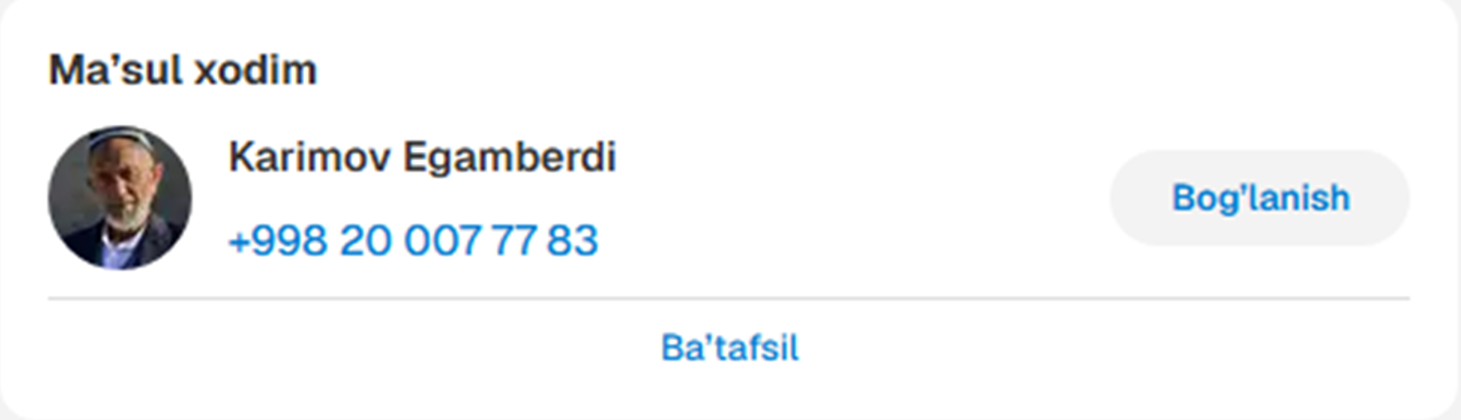
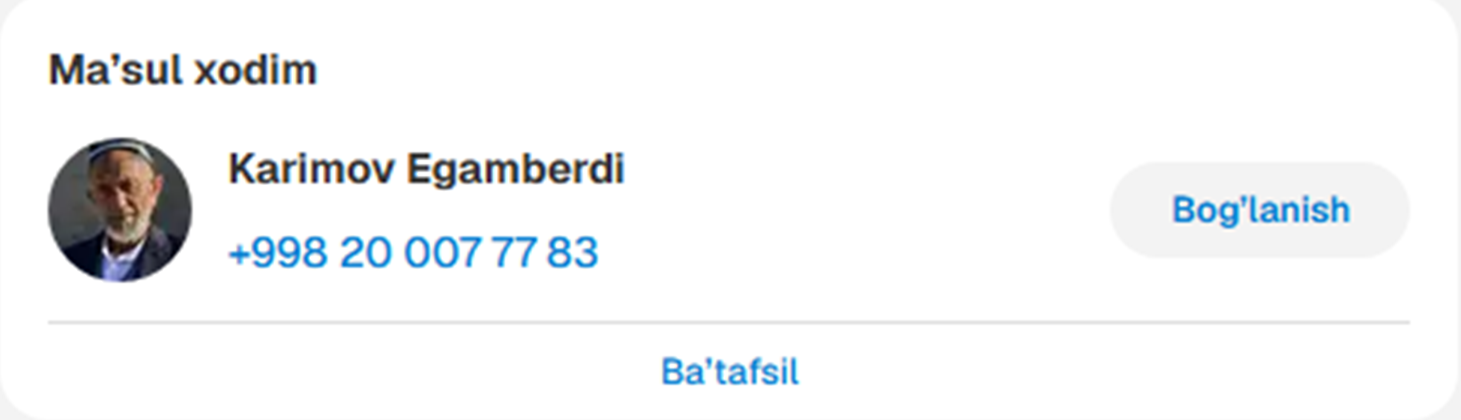
docs: update figma reference measurements and renders

Changed region(s): [[0.0308, 0.2786, 0.9548, 0.7119], [0.0308, 0.7429, 0.9548, 0.9286], [0.8008, 0.4333, 0.924, 0.5571]]

diff --git a/.claude/figma/reference.md b/.claude/figma/reference.md
@@ -24,12 +24,13 @@ powershell -File .claude/figma/sample.ps1 -Points "436,20 460,42 1500,290"
 
 ## Umumiy uslub
 
-- Karta: `bg-white`, `rounded-[12px]`, `p-[16px]`.
+- Karta: `bg-white`, `rounded-[16px]`, `p-[16px]`. (Radius piksel bo’yicha
+  o’lchangan: burchak yoyi ~16px. Ba’zi kartalarda pastki bo’shliq 8px — `pb-2`.)
 - Sahifa foni: `#f3f3f3`. Ustunlararo va qatorlararo bo'shliq: `8px`.
 - Sarlavha (`Header`): balandligi `32px`, `flex items-center justify-between`.
   Matn: `Geist Bold 14px`, rang `#333`.
 - Karta ichidagi bo'lim izohi: `12px`, rang `#767676`.
-- Markazdagi pastki havola ("Ba'tafsil"): `14px medium`, rang `#007cd2`.
+- Markazdagi pastki havola ("Ba'tafsil"): `12px medium`, rang `#007cd2`.
 
 ### Sarlavhadagi tugmalar (node 4029:1222)
 
@@ -48,10 +49,12 @@ Yolg'iz tugma: bg-[#f3f3f3] rounded-[999px] p-[2px] + bitta 28px tugma
 sarlavha qatori: bg-[#007cd2] px-[6px] py-[8px] rounded-t-[6px]
                  border-b border-[#f0f0f0]
                  matn: 11px semibold, oq, markazda
-qator:           p-[6px] border-b border-[#f0f0f0]
+qator:           px-[6px] border-b border-[#f0f0f0]
+                 balandlik jadvalga qarab 28 / 29 / 30px (`rowHeight` propi)
                  matn: 12px, #333, markazda; 1-ustun `font-medium`
-oxirgi qator:    bg-[#f3f3f3] px-[6px] py-[8px] rounded-b-[6px], border yo'q
-nishon (Badge):  rounded-full px-[8px] py-[2px] 10px semibold
+oxirgi qator:    bg-[#f3f3f3] px-[6px] rounded-b-[6px], border yo'q
+                 balandlik 32 / 34 / 35px (`lastRowHeight` propi)
+nishon (Badge):  rounded-full px-[8px] py-[2.5px] 10px/13px semibold (18px)
                  Faol    bg-[#effff0] text-[#22c55e]
                  Nofaol  bg-[#ffefef] text-[#cf4646]
                  Ta'mirda bg-[#fff5ef] text-[#f59e0b]
@@ -62,7 +65,7 @@ nishon (Badge):  rounded-full px-[8px] py-[2px] 10px semibold
 ### KPI kartasi (node 4029:986, balandligi 196)
 
 ```
-bg: tint (#eff6ff / #effff0 / #ffefef / #feefff / #f3efff / #fff5ef), p-[16px], rounded-[12px]
+bg: tint (...), p-[16px], rounded-[12px]  <- KPI kartasi 12px (oq kartalar 16px)
 header  h-[32] items-start justify-between
         sarlavha 14px medium #333
         nishon   size-[32px] rounded-[6px] bg-<accent>, ichida 20px oq ikonka
@@ -75,6 +78,19 @@ chart   flex-1 gap-[8px] items-end
 ```
 
 Accent ranglar: `#3b82f6` `#22c55e` `#ff383c` `#cb30e0` `#6155f5` `#ac7f5e`.
+
+### Oraliq slayderi (node 4029:1341)
+
+```
+yo’lak:  h-[18px] rounded-full bg-[#eff6ff], ichida 2px #d5eafc chiziq
+tanlov: rounded-xs border #007cd2, fon #49abf5/30, matn 11px medium #007cd2
+tutqich: 12x12 rounded-[3px] oq, 1x4px #dddddd belgisi, kursor ew-resize
+```
+
+Slayder **ishlaydi**: yo’lak butun oyni (30 kun) ifodalaydi, tanlov 7..30 kun,
+qadam 1 kun. Shu sababli 7 kunlik tanlov eni 7/30 = 23,3% (maketdagi qotib
+qolgan 27,7% emas) - maket statik bo’lgani uchun u yerdagi eni hech qanday
+chiziqli o’lchovga mos kelmaydi.
 
 ### Xarita markeri (node 3947:372)
 
